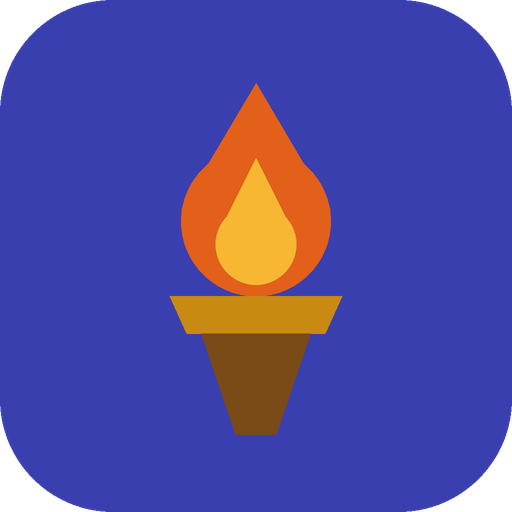
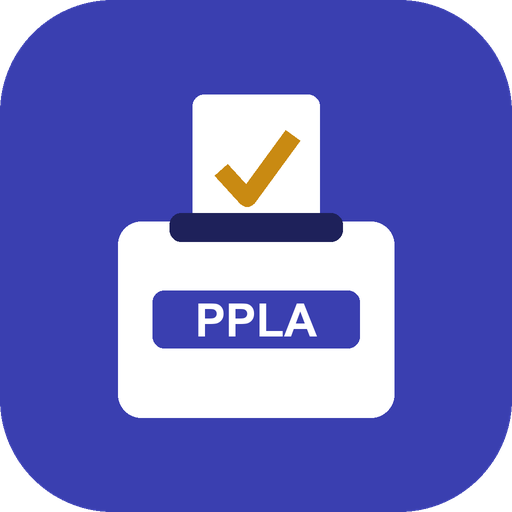
v1.14: general PPLA election monitoring manager
- Neutral header with all three contesting panels' symbols (Torch, Eagle, Lion)
- Every panel shown alike in result entry, tallies and the Team candidates table
- Ballot templates name Eagle and Lion candidates from their posters where the post matches one candidate
- Torch candidates listed in Contesting panels from the ballot templates
- Neutral wording, settings (desk name, support levels for a chosen panel), ballot-box icon

Changed region(s): [[0.2188, 0.1562, 0.7812, 0.875]]

diff --git a/index.html b/index.html
@@ -5,7 +5,7 @@
 <meta name="viewport" content="width=device-width,initial-scale=1,viewport-fit=cover">
 <title>PPLA Election Manager</title>
 <meta name="theme-color" content="#3a3fb0">
-<meta name="ppla-build" content="23">
+<meta name="ppla-build" content="24">
 <meta name="description" content="Campaign manager and unofficial results tally for PPLA elections">
 <link rel="manifest" href="manifest.webmanifest">
 <link rel="icon" href="icons/icon-192.png" type="image/png">
@@ -20,7 +20,7 @@
 :root{
   --bg:#eef1f5; --surface:#ffffff; --surface-2:#f6f8fb; --line:#d9dee8;
   --fg:#161a2b; --muted:#5c6378; --accent:#3a3fb0; --accent-ink:#ffffff; --accent-soft:#e3e4f8;
-  --gold:#c98a12; --flame:#e2601a; --flame-core:#f7b733; --handle:#7a4a17;
+  --gold:#c98a12; --flame:#e2601a; --flame-core:#f7b733; --handle:#7a4a17; --eagle:#2f6db3; --lion:#b5651d; --lion-face:#f0c27a;
   --strong:#1f8a52; --lean:#2f8fa8; --undec:#c98a12; --opp:#c2413a;
   --display:"Barlow Condensed","Arial Narrow",Arial,sans-serif;
   --body:"Source Sans 3","Segoe UI",system-ui,sans-serif;
@@ -28,11 +28,11 @@
 @media (prefers-color-scheme: dark){:root:not([data-theme="light"]){
   --bg:#0f111a; --surface:#181b28; --surface-2:#1e2232; --line:#2b3046;
   --fg:#e8eaf3; --muted:#9aa1b8; --accent:#8e92ff; --accent-ink:#11132a; --accent-soft:#262a52;
-  --gold:#e8b44a; --flame:#ff7a33; --flame-core:#ffd060; --handle:#b07a3c; --strong:#4cc285; --lean:#5bbfd6; --undec:#e8b44a; --opp:#f07a72; color-scheme:dark}}
+  --gold:#e8b44a; --flame:#ff7a33; --flame-core:#ffd060; --handle:#b07a3c; --eagle:#6ea8ef; --lion:#d98a45; --lion-face:#f3d29a; --strong:#4cc285; --lean:#5bbfd6; --undec:#e8b44a; --opp:#f07a72; color-scheme:dark}}
 :root[data-theme="dark"]{
   --bg:#0f111a; --surface:#181b28; --surface-2:#1e2232; --line:#2b3046;
   --fg:#e8eaf3; --muted:#9aa1b8; --accent:#8e92ff; --accent-ink:#11132a; --accent-soft:#262a52;
-  --gold:#e8b44a; --flame:#ff7a33; --flame-core:#ffd060; --handle:#b07a3c; --strong:#4cc285; --lean:#5bbfd6; --undec:#e8b44a; --opp:#f07a72; color-scheme:dark}
+  --gold:#e8b44a; --flame:#ff7a33; --flame-core:#ffd060; --handle:#b07a3c; --eagle:#6ea8ef; --lion:#d98a45; --lion-face:#f3d29a; --strong:#4cc285; --lean:#5bbfd6; --undec:#e8b44a; --opp:#f07a72; color-scheme:dark}
 
 *{box-sizing:border-box}
 :root{padding-top:env(safe-area-inset-top,0px);padding-bottom:env(safe-area-inset-bottom,0px)}
@@ -62,6 +62,11 @@ h1{margin:2px 0 0;font-size:32px;line-height:1.05;font-weight:700}
 .urdu b{color:var(--flame);font-weight:700}
 .symtag{display:inline-flex;align-items:center;gap:3px;color:var(--flame);font-weight:700;font-size:12px}
 .symtag svg{width:14px;height:14px}
+.symtag.p-eagle{color:var(--eagle)} .symtag.p-lion{color:var(--lion)}
+.parties{display:flex;flex-wrap:wrap;gap:6px 14px;margin-top:6px}
+.party{display:flex;align-items:center;gap:6px;font-size:12px;line-height:1.25;color:var(--muted)}
+.party svg{width:30px;height:30px;flex:none}
+.party b{display:block;color:var(--ink)}
 .linkbtn{background:none;border:0;color:var(--accent);font-weight:600;padding:0;font-size:13px}
 nav.tabs{display:flex;gap:4px;overflow-x:auto;scrollbar-width:none;margin:0 -4px}
 nav.tabs button{background:none;border:0;border-bottom:3px solid transparent;padding:10px 12px;font-family:var(--display);font-size:18px;font-weight:600;color:var(--muted);white-space:nowrap}
@@ -237,16 +242,13 @@ nav.tabs .ur{font-size:14px}
   <div class="wrap">
     <div class="headrow">
       <div class="brand">
-        <svg class="torch" viewBox="0 0 64 64" role="img" aria-label="Election symbol: Torch (Mashal)"><title>Election symbol: Torch (Mashal)</title>
-          <path d="M32 3c7 9 13 14 13 23a13 13 0 0 1-26 0c0-7 4-10 7-15 1 4 3 6 5 7-1-6 0-10 1-15z" fill="var(--flame)"/>
-          <path d="M32 17c3 5 7 8 7 13a7 7 0 0 1-14 0c0-4 2-6 3-9 1 2 2 3 4 4 0-3 0-5 0-8z" fill="var(--flame-core)"/>
-          <path d="M18 39h28l-3 6H21z" fill="var(--gold)"/>
-          <path d="M23 45h18l-6 17h-6z" fill="var(--handle)"/></svg>
+        
         <div>
-        <div class="eyebrow" id="hdrEyebrow">Nawa-e-Asatza · Ittehad-e-Asatza Punjab · PPLA Elections</div>
+        <div class="eyebrow" id="hdrEyebrow">PPLA Elections · Election monitoring</div>
         <h1 id="hdrTitle">PPLA Election Manager</h1>
-        <div class="urdu" lang="ur" dir="rtl">نوائے اساتذہ · اتحادِ اساتذہ پنجاب — انتخابی نشان: <b>مشعل</b></div>
-        <div class="btnrow" style="align-items:center;margin-top:4px"><button class="linkbtn" id="btnSettings" type="button">Set panel name &amp; polling day</button><button class="btn small primary" id="btnInstall" type="button" hidden>Install app</button></div>
+        <div class="urdu" lang="ur" dir="rtl">پی پی ایل اے انتخابات — مقابلے میں تین پینل</div>
+        <div class="parties" id="hdrParties"></div>
+        <div class="btnrow" style="align-items:center;margin-top:4px"><button class="linkbtn" id="btnSettings" type="button">Set desk name &amp; polling day</button><button class="btn small primary" id="btnInstall" type="button" hidden>Install app</button></div>
         </div>
       </div>
       <div class="stamp" id="stamp" hidden>
@@ -344,7 +346,7 @@ nav.tabs .ur{font-size:14px}
     <div class="filters"><input id="tSearch" type="search" placeholder="Search name, college, district or task"><select id="tDiv" aria-label="Division"></select></div>
     <div class="kpis" id="tKpis"></div>
     <div class="card"><div class="sechead"><h3>Coordinator gaps</h3><span class="note">Every division, district and college needs a named person</span></div><div class="datacard" id="tGaps"></div></div>
-    <div class="card"><div class="sechead"><h3>Our candidates &amp; seats</h3><button class="btn small" data-rgo-tab="setup" type="button">Edit posts &amp; candidates</button></div><div id="tCands"></div></div>
+    <div class="card"><div class="sechead"><h3>Candidates &amp; seats</h3><button class="btn small" data-rgo-tab="setup" type="button">Edit posts &amp; candidates</button></div><div id="tCands"></div></div>
     <div class="grid2" id="teamGroups"></div>
   </section>
 
@@ -419,7 +421,7 @@ nav.tabs .ur{font-size:14px}
 <script>
 (function(){
 const DIVISIONS=["Bahawalpur","Dera Ghazi Khan","Faisalabad","Gujranwala","Gujrat","Lahore","Multan","Rawalpindi","Sahiwal","Sargodha"];
-const SUPPORT=[["strong","Strong support","c-strong"],["lean","Leaning our way","c-lean"],["undec","Undecided","c-undec"],["opp","Opposed","c-opp"]];
+const SUPPORT=[["strong","Strong support","c-strong"],["lean","Leaning","c-lean"],["undec","Undecided","c-undec"],["opp","Opposed","c-opp"]];
 const SUPMAP=Object.fromEntries(SUPPORT.map(s=>[s[0],s]));
 const ACT_TYPES=["College visit","Staff-room meeting","Phone / WhatsApp drive","Corner meeting","Divisional convention","Central rally / convention","Press & social media","Manifesto distribution","Polling-day duty"];
 const ROLES=["Central committee","Campaign coordinator","Divisional coordinator","District coordinator","Unit coordinator","Unit representative","Focal person","Polling agent","Volunteer"];
@@ -429,11 +431,22 @@ const FOCUS=["Media & social media","Women colleges","Polling agents & polling d
 const UNIT_ROLES=["Unit coordinator","Unit representative"];
 const LEVELS={unit:"Unit",division:"Division",centre:"Centre"};
 // Release numbers: scripts/release.py keeps these, the ppla-build meta tag, version.json and sw.js in step.
-const APP_VERSION="1.13", APP_BUILD=23;
+const APP_VERSION="1.14", APP_BUILD=24;
 // Coalition this desk serves. The panel name in Settings overrides the display name.
-const COALITION="Nawa-e-Asatza & Ittehad-e-Asatza Punjab", SYMBOL="Torch (Mashal · مشعل)";
-const TORCH_SVG=`<svg viewBox="0 0 64 64" aria-hidden="true"><path d="M32 3c7 9 13 14 13 23a13 13 0 0 1-26 0c0-7 4-10 7-15 1 4 3 6 5 7-1-6 0-10 1-15z" fill="var(--flame)"/><path d="M18 39h28l-3 6H21z" fill="var(--gold)"/><path d="M23 45h18l-6 17h-6z" fill="var(--handle)"/></svg>`;
-const panelName=()=>S.cfg.panel||COALITION;
+const TORCH_SVG=`<svg viewBox="0 0 64 64" aria-hidden="true"><path d="M32 3c7 9 13 14 13 23a13 13 0 0 1-26 0c0-7 4-10 7-15 1 4 3 6 5 7-1-6 0-10 1-15z" fill="var(--flame)"/><path d="M32 17c3 5 7 8 7 13a7 7 0 0 1-14 0c0-4 2-6 3-9 1 2 2 3 4 4 0-3 0-5 0-8z" fill="var(--flame-core)"/><path d="M18 39h28l-3 6H21z" fill="var(--gold)"/><path d="M23 45h18l-6 17h-6z" fill="var(--handle)"/></svg>`, EAGLE_SVG=`<svg viewBox="0 0 64 64" aria-hidden="true"><path d="M32 14c-3 0-5 2-5 5v4C20 21 10 16 3 8c2 12 9 21 20 25l-7 3h9l3 2v9l-5 9h18l-5-9v-9l3-2h9l-7-3c11-4 18-13 20-25-7 8-17 13-24 15v-4c0-3-2-5-5-5z" fill="var(--eagle)"/><path d="M29 18l-5 2 5 1z" fill="var(--gold)"/><circle cx="33" cy="18" r="1.4" fill="#fff"/></svg>`, LION_SVG=`<svg viewBox="0 0 64 64" aria-hidden="true"><path d="M32 3l6 7 9-3 1 9 9 4-4 8 6 7-8 4 1 9-9-1-4 8-7-5-7 5-4-8-9 1 1-9-8-4 6-7-4-8 9-4 1-9 9 3z" fill="var(--lion)"/><circle cx="32" cy="34" r="15" fill="var(--lion-face)"/><circle cx="26.5" cy="31" r="2" fill="#2a1a0e"/><circle cx="37.5" cy="31" r="2" fill="#2a1a0e"/><path d="M28.5 37h7L32 41z" fill="#2a1a0e"/><path d="M27 44q5 3 10 0" stroke="#2a1a0e" stroke-width="1.6" fill="none"/></svg>`;
+// The three panels contesting the PPLA elections, shown alike. Symbol words are matched first, then panel names:
+// the Eagle panel's own posters call it "Ittehad-e-Asatza Punjab", which is also part of the Torch coalition's name.
+const PARTIES=[
+  {key:"torch",en:"Nawa-e-Asatza & Ittehad-e-Asatza Punjab",ur:"نوائے اساتذہ · اتحاد اساتذہ پنجاب",sym:"Torch",symUr:"مشعل",svg:TORCH_SVG,
+    syms:["torch","mashal","mashaal","مشعل"],names:["nawa e asatza","nawa asatza","nawae asatza","ittehad e asatza punjab","ittihad e asatza punjab","etehad e asatza punjab","ethad e asatza punjab","ethad a asatza punjab","نوائے اساتذہ","اتحاد اساتذہ پنجاب","اتحادِ اساتذہ پنجاب"]},
+  {key:"eagle",en:"Ittehad-e-Asatza Pakistan",ur:"اتحاد اساتذہ پاکستان",sym:"Eagle",symUr:"شاہین",svg:EAGLE_SVG,
+    syms:["eagle","shaheen","شاہین","عقاب"],names:["ittehad e asatza pakistan","ittihad e asatza pakistan","اتحاد اساتذہ پاکستان","اتحادِ اساتذہ پاکستان"]},
+  {key:"lion",en:"Tehreek-e-Asatza Punjab",ur:"تحریک اساتذہ پنجاب",sym:"Lion",symUr:"شیر",svg:LION_SVG,
+    syms:["lion","شیر"],names:["tehreek e asatza","tehreek asatza","tehreak e asatza","tehreak a asatza","tahreek e asatza","تحریک اساتذہ"]}];
+const partyOf=k=>{const raw=String(k&&(k.panel||k.name)||"");if(!raw)return null;const p=norm(raw),has=m=>raw.includes(m)||p.includes(m);
+  return PARTIES.find(x=>x.syms.some(has))||PARTIES.find(x=>x.names.some(has))||null};
+const symTag=(p,label=true)=>p?`<span class="symtag p-${p.key}" title="${esc(p.sym)} · ${esc(p.en)}">${p.svg}${label?esc(p.sym):""}</span>`:"";
+const panelName=()=>S.cfg.panel||"PPLA Election Manager";
 
 /* ---------- Punjab colleges directory (861 public colleges, CIS Punjab; rebuilt by scripts/build_seed.py) ---------- */
 /*SEED-START*/
@@ -556,7 +569,7 @@ function briefText(div){
   if(pr.length){L.push("","*Priority targets*");pr.forEach((x,i)=>L.push(`${i+1}. ${x.u.name}${n(x.u.members)?` — ${n(x.u.members)} voters`:""}, ${(SUPMAP[x.u.support]||["","not assessed"])[1].toLowerCase()}, ${x.l?"last contact "+fmtDate(x.l):"never contacted"}`))}
   if(!div){const lag=DIVISIONS.map(d=>({d,g:agg(S.units.filter(u=>u.division===d))})).filter(x=>x.g.units).sort((x,y)=>pct(x.g.contacted,x.g.voters)-pct(y.g.contacted,y.g.voters)||y.g.units-x.g.units).slice(0,3);
     if(lag.length){L.push("","*Divisions needing a push*");lag.forEach(x=>L.push(`• ${x.d}: ${pct(x.g.contacted,x.g.voters)}% contacted, ${x.g.units} units`))}}
-  L.push("",`🔥 Vote for the Torch (مشعل) · ${COALITION}`);
+  L.push("","PPLA Election Manager · unofficial monitoring brief");
   return L.join("\n");
 }
 function emptyBox(title,body,btn){return `<div class="empty"><b>${esc(title)}</b><span>${esc(body)}</span>${btn&&!S.readOnly?`<button class="btn small primary" data-add="${btn[0]}" type="button">${esc(btn[1])}</button>`:""}</div>`}
@@ -572,7 +585,7 @@ function renderPunjab(){
     ["Unit coordinators in place",pct(reps,a.units)+"%",reps+" of "+a.units+" units"],
     ["Voters (faculty)",a.voters.toLocaleString(),a.voters?S.units.filter(u=>n(u.members)).length+" units with strength entered":"enter faculty strength per unit"],
     ["Contacted",pct(a.contacted,a.voters)+"%",a.contacted.toLocaleString()+" teachers"],
-    ["Favourable",pct(fav,a.voters)+"%",!a.voters?"strong + leaning":fav>=maj?"majority reached on paper":(maj-fav).toLocaleString()+" short of a majority"],
+    ["Favourable",pct(fav,a.voters)+"%",!a.voters?"strong + leaning"+trackNote():fav>=maj?"majority reached on paper":(maj-fav).toLocaleString()+" short of a majority"],
     ["Outreach done",done.length,reached?reached.toLocaleString()+" people reached":"log the first one"],
   ]);
   supBar($("pBar"),a);
@@ -697,14 +710,15 @@ function renderTeam(){
   $("tGaps").innerHTML=!gapDiv.length&&!gapDist.length?`<div class="okline">Every ${tdv?"post in "+esc(tdv):"division and district"} has a coordinator.</div>`:
     (gapDiv.length?`<div class="note"><b>Divisions without a coordinator</b> (tap to assign)</div><div class="btnrow">${gapDiv.map(d=>assignBtn(d,{role:"Divisional coordinator",level:"division",division:d})).join("")}</div>`:"")+
     (gapDist.length?`<div class="note"><b>Districts without a coordinator</b> (tap to assign)</div><div class="btnrow">${gapDist.map(x=>assignBtn(x.ds+(tdv?"":" · "+x.d),{role:"District coordinator",level:"district",division:x.d,district:x.ds})).join("")}</div>`:"");
-  // our candidates, from Results > Posts & candidates
-  const ours=S.contests.map(c=>({c,k:(c.candidates||[]).filter(isOurs)})).sort((a,b)=>cmpContest(a.c,b.c))
-    .filter(x=>!tdv||x.c.scope==="centre"||x.c.division===tdv||(x.c.scope==="unit"&&(S.units.find(u=>u.id===x.c.unitId)||{}).division===tdv));
-  $("tCands").innerHTML=!S.contests.length?`<div class="empty"><b>No posts set up yet</b><span>Add each post with its seats and candidates. Write our candidates' panel as "Nawa-e-Asatza", "Ittehad-e-Asatza" or "Torch" so they are picked out.</span><button class="btn small primary" data-rgo-tab="setup" type="button">Set up posts &amp; candidates</button></div>`:
-    `<div class="tscroll"><table><thead><tr><th>Post</th><th>Who votes</th><th class="r">Seats</th><th>Our candidate(s)</th><th class="r">In the field</th></tr></thead><tbody>`+
-    ours.map(x=>{const seats=n(x.c.seats)||1,open=seats-x.k.length;return `<tr class="click" data-edit-contest="${esc(x.c.id)}" tabindex="0"><td><b>${esc(x.c.name)}</b></td><td>${esc(scopeLabel(x.c))}</td><td class="r">${seats}</td>
-      <td>${x.k.length?x.k.map(k=>`<span class="symtag">${TORCH_SVG}</span> ${esc(k.name)}`).join("<br>"):'<span class="stale">No Torch candidate</span>'}${x.k.length&&open>0?` <span class="note">(${open} seat${open===1?"":"s"} without our candidate)</span>`:""}</td>
-      <td class="r">${(x.c.candidates||[]).length}</td></tr>`}).join("")+`</tbody></table></div>`;
+  // every panel's candidates, from Results > Posts & candidates
+  const posts=S.contests.slice().sort(cmpContest)
+    .filter(c=>!tdv||c.scope==="centre"||c.division===tdv||(c.scope==="unit"&&(S.units.find(u=>u.id===c.unitId)||{}).division===tdv));
+  const pcell=(c,p)=>{const ks=(c.candidates||[]).filter(k=>partyOf(k)===p);
+    return ks.length?ks.map(k=>k.name===k.panel?'<span class="note">panel only</span>':esc(k.name)).join("<br>"):'<span class="stale">–</span>'};
+  $("tCands").innerHTML=!S.contests.length?`<div class="empty"><b>No posts set up yet</b><span>Add each post with its seats and candidates. Write each candidate's panel or symbol (Torch, Eagle or Lion) so the right symbol is shown.</span><button class="btn small primary" data-rgo-tab="setup" type="button">Set up posts &amp; candidates</button></div>`:
+    `<div class="tscroll"><table><thead><tr><th>Post</th><th>Who votes</th><th class="r">Seats</th>${PARTIES.map(p=>`<th>${symTag(p)}</th>`).join("")}<th class="r">In the field</th></tr></thead><tbody>`+
+    posts.map(c=>`<tr class="click" data-edit-contest="${esc(c.id)}" tabindex="0"><td><b>${esc(c.name)}</b></td><td>${esc(scopeLabel(c))}</td><td class="r">${n(c.seats)||1}</td>
+      ${PARTIES.map(p=>`<td>${pcell(c,p)}</td>`).join("")}<td class="r">${(c.candidates||[]).length}</td></tr>`).join("")+`</tbody></table></div>`;
   if(!S.team.length){$("teamGroups").innerHTML=`<div style="grid-column:1/-1">${emptyBox("No team members yet","Add the central committee, a coordinator for each division and district, a coordinator for every college, and focal persons for media, polling day and other tasks.",["member","Add member"])}</div>`;return}
   const match=m=>(!tdv||m.division===tdv||m.level==="centre")&&(!q||[m.name,m.role,m.focus,m.unit,m.district,m.division,m.phone,(S.units.find(u=>u.id===m.unitId)||{}).name].join(" ").toLowerCase().includes(q));
   const notFocal=m=>m.role!=="Focal person";
@@ -715,7 +729,9 @@ function renderTeam(){
 
 function renderHeader(){
   const c=S.cfg;
-  $("hdrTitle").textContent=c.panel?c.panel:"PPLA Election Manager";
+  $("hdrTitle").textContent="PPLA Election Manager";
+  $("hdrEyebrow").textContent=(c.panel?c.panel+" · ":"")+"PPLA Elections · Election monitoring";
+  $("hdrParties").innerHTML=PARTIES.map(p=>`<span class="party">${p.svg}<span><b>${esc(p.sym)} · <span lang="ur">${esc(p.symUr)}</span></b>${esc(p.en)}</span></span>`).join("");
   if(c.pollDate){const d=dayDiff(c.pollDate,todayStr());$("stamp").hidden=false;$("daysLeft").textContent=d>=0?d:"0";$("pollDate").textContent=fmtDate(c.pollDate)}else $("stamp").hidden=true;
   $("btnSettings").hidden=S.readOnly&&!!c.panel;
 }
@@ -853,8 +869,9 @@ function memberForm(m){
 
 function settingsForm(){
   const c=S.cfg;
-  openSheet(`<h2 id="sheetTitle">Campaign settings</h2><form class="f">
-    <label class="full">Panel / coalition name<input name="panel" value="${esc(c.panel)}" placeholder="${esc(COALITION)}"></label>
+  openSheet(`<h2 id="sheetTitle">Settings</h2><form class="f">
+    <label class="full">Desk or team name (shown on shared messages)<input name="panel" value="${esc(c.panel)}" placeholder="PPLA Election Manager"></label>
+    <label class="full">Support levels are for<select name="trackParty"><option value="">Not set</option>${PARTIES.map(p=>`<option value="${p.key}"${c.trackParty===p.key?" selected":""}>${esc(p.sym)} · ${esc(p.en)}</option>`).join("")}</select></label>
     <label>Polling day<input name="pollDate" type="date" value="${esc(c.pollDate)}"></label>
     <label>Election body<input name="body" value="${esc(c.body||"Punjab Professors & Lecturers Association")}"></label>
     <div class="full ballothead"><b>Main Election Office</b> · every polling agent sends results here. Set it once on the central desk, then send the backup to all phones.</div>
@@ -864,7 +881,7 @@ function settingsForm(){
     ${foot(false)}</form>`,
   async d=>{
     for(const k of["officeWa","officeWa2"])if(d[k].trim()&&!waNumber(d[k])){toast("Check the office number: use a mobile number like 0300-1234567");return}
-    S.cfg=Object.assign({},S.cfg,{panel:d.panel.trim(),pollDate:d.pollDate,body:d.body.trim(),officeName:d.officeName.trim()||DEFAULT_OFFICE,officeWa:d.officeWa.trim(),officeWa2:d.officeWa2.trim(),updatedAt:new Date().toISOString()});persist();render();toast("Settings saved");closeSheet()});
+    S.cfg=Object.assign({},S.cfg,{panel:d.panel.trim(),trackParty:d.trackParty||"",pollDate:d.pollDate,body:d.body.trim(),officeName:d.officeName.trim()||DEFAULT_OFFICE,officeWa:d.officeWa.trim(),officeWa2:d.officeWa2.trim(),updatedAt:new Date().toISOString()});persist();render();toast("Settings saved");closeSheet()});
 }
 $("btnSettings").addEventListener("click",settingsForm);
 
@@ -1157,14 +1174,6 @@ const applies=(c,u)=>c.scope==="centre"||(c.scope==="division"&&u.division===c.d
 let resIdx=null,resIdxVer=-1,resIdxArr=null;
 const resFor=uid=>{if(resIdxVer!==dataVer||resIdxArr!==S.results){resIdx=new Map(S.results.map(r=>[r.unitId,r]));resIdxVer=dataVer;resIdxArr=S.results}return resIdx.get(uid)};
 const scopeLabel=c=>c.scope==="centre"?"Provincial (Punjab-wide)":c.scope==="division"?(c.division||"?")+" Division":((S.units.find(u=>u.id===c.unitId)||{}).name||"Unit");
-// Our candidate: panel matches the Settings panel name, or names the coalition or its Torch symbol.
-// Narrow on purpose: "Asatza" alone also names rival panels (Ittehad-e-Asatza Pakistan · Eagle, Tehreek-e-Asatza Punjab · Lion).
-const OUR_MARKS=["nawa e asatza","nawa asatza","nawae asatza","ittehad e asatza punjab","ittihad e asatza punjab","etehad e asatza punjab","ethad e asatza punjab","ethad a asatza punjab","torch","mashal","mashaal"];
-const OUR_MARKS_UR=["مشعل","نوائے اساتذہ","اتحاد اساتذہ پنجاب","اتحادِ اساتذہ پنجاب"];
-const isOurs=k=>{if(!k||!k.panel)return false;const raw=String(k.panel),p=norm(raw);
-  if(OUR_MARKS_UR.some(m=>raw.includes(m)))return true;
-  if(OUR_MARKS.some(m=>p.includes(m)))return true;
-  return !!(S.cfg.panel&&p&&(norm(S.cfg.panel).includes(p)||p.includes(norm(S.cfg.panel))))};
 const hasVotes=(r,c)=>r&&r.votes&&r.votes[c.id]&&Object.values(r.votes[c.id]).some(v=>v!==""&&v!=null);
 
 function tally(c){
@@ -1199,7 +1208,7 @@ $("rViews").addEventListener("click",e=>{const b=e.target.closest("[data-rview]"
 const PANEL_LEVEL={centre:"Provincial",division:"Divisional"};
 function renderPanels(){
   const box=$("rPanels");
-  const list=typeof CONTEST_PANELS!=="undefined"?CONTEST_PANELS:[];
+  const list=(typeof CONTEST_PANELS!=="undefined"?CONTEST_PANELS:[]).concat(templatePanels());
   if(!list.length){box.innerHTML=`<div class="empty"><b>No contesting panels yet</b></div>`;return}
   const divs=[...new Set(list.map(p=>p.division).filter(Boolean))].sort((a,b)=>DIVISIONS.indexOf(a)-DIVISIONS.indexOf(b));
   const f=S.panelFilter||"all", q=(S.panelQ||"").trim().toLowerCase();
@@ -1215,13 +1224,13 @@ function renderPanels(){
   const shown=list.filter(p=>f==="all"||(f==="centre"?p.level==="centre":p.division===f))
     .map(p=>Object.assign({},p,{cands:p.candidates.filter(hit)})).filter(p=>p.cands.length);
   const group=p=>`<div class="pgroup card">
-      <div class="pghead"><b>${esc(p.panel)}</b><span class="ur" lang="ur" dir="rtl">${esc(p.panelUr)}</span>
+      <div class="pghead">${symTag(partyOf({panel:p.symbol+" "+p.panel}),false)}<b>${esc(p.panel)}</b><span class="ur" lang="ur" dir="rtl">${esc(p.panelUr)}</span>
         <span class="ptag">${esc(p.symbol)} · <span lang="ur">${esc(p.symbolUr)}</span></span><span class="ptag">${esc(PANEL_LEVEL[p.level])}${p.division?" · "+esc(p.division):""}</span></div>
       <div class="cgrid">${p.cands.map(cand).join("")}</div></div>`;
   const sections=[["Provincial panels",shown.filter(p=>p.level==="centre")],...divs.map(d=>[d+" Division",shown.filter(p=>p.division===d)])].filter(g=>g[1].length);
   const total=list.reduce((n,p)=>n+p.candidates.length,0);
   box.innerHTML=`<div class="sechead"><h2>Contesting panels</h2></div>
-    <p class="note">Rival panels' candidates as printed on their own posters (${total} so far), so agents and coordinators can recognise them. Our own panel is ${esc(COALITION)} (Torch).</p>
+    <p class="note">Candidates of all three contesting panels (${total} so far), so agents and monitors can recognise them. Photos and names are as printed on each panel's own posters; candidates without a poster here are listed from the ballot paper.</p>
     <input id="pSearch" type="search" placeholder="Search name, post or college" value="${esc(S.panelQ||"")}" aria-label="Search candidates">
     <div class="chips">${chip("all","All")}${chip("centre","Provincial")}${divs.map(d=>chip(d,d)).join("")}</div>
     ${sections.length?sections.map(([t,ps])=>`<h3>${esc(t)}</h3>${ps.map(group).join("")}`).join(""):`<div class="empty"><b>No candidate matches</b></div>`}`;
@@ -1237,15 +1246,15 @@ function ballotsFor(cs){
   for(const c of cs.slice().sort(cmpContest)){
     const b=by[c.scope]=by[c.scope]||{scope:c.scope,title:BALLOT_NAME[c.scope]+(c.scope==="division"&&c.division?" · "+c.division:""),posts:0,panels:[],seen:new Set()};
     b.posts++;
-    for(const k of c.candidates||[]){const key=panelKey(k);if(!b.seen.has(key)){b.seen.add(key);b.panels.push({key,label:k.panel||k.name,ours:isOurs(k)})}}
+    for(const k of c.candidates||[]){const key=panelKey(k);if(!b.seen.has(key)){b.seen.add(key);b.panels.push({key,label:k.panel||k.name,party:partyOf(k)})}}
   }
   return Object.values(by);
 }
 // Entry fields for one ballot: one count per panel, or each candidate's votes post by post.
 function ballotFields(b,cs,r){
-  if(panelMode(b.scope))return `<fieldset class="full"><legend>${esc(b.title)}</legend><div class="full note">${b.posts} post${b.posts===1?"":"s"} on this ballot. One stamp counts for a whole panel: enter the votes for each panel.</div>${b.panels.map(pn=>`<label>${esc(pn.label)}${pn.ours?` <span class="symtag">${TORCH_SVG}</span>`:""}<input type="number" min="0" inputmode="numeric" data-ps="${esc(b.scope)}" data-pk="${esc(pn.key)}" value="${esc(panelValue(r,b,pn.key))}"></label>`).join("")}</fieldset>`;
+  if(panelMode(b.scope))return `<fieldset class="full"><legend>${esc(b.title)}</legend><div class="full note">${b.posts} post${b.posts===1?"":"s"} on this ballot. One stamp counts for a whole panel: enter the votes for each panel.</div>${b.panels.map(pn=>`<label>${esc(pn.label)}${pn.party?" "+symTag(pn.party,false):""}<input type="number" min="0" inputmode="numeric" data-ps="${esc(b.scope)}" data-pk="${esc(pn.key)}" value="${esc(panelValue(r,b,pn.key))}"></label>`).join("")}</fieldset>`;
   return `<div class="full ballothead"><b>${esc(b.title)}</b> · ${b.posts} post${b.posts===1?"":"s"} · enter each candidate's votes</div>`+
-    cs.filter(c=>c.scope===b.scope).sort(cmpContest).map(c=>`<fieldset class="full"><legend>${esc(c.name)}${c.seats>1?` · ${c.seats} seats`:""}</legend>${(c.candidates||[]).map(k=>`<label>${esc(k.name)}${k.panel&&k.panel!==k.name?` · ${esc(k.panel)}`:""}${isOurs(k)?` <span class="symtag">${TORCH_SVG}</span>`:""}<input type="number" min="0" inputmode="numeric" data-c="${esc(c.id)}" data-k="${esc(k.id)}" value="${esc(r&&r.votes&&r.votes[c.id]?r.votes[c.id][k.id]??"":"")}"></label>`).join("")}</fieldset>`).join("");
+    cs.filter(c=>c.scope===b.scope).sort(cmpContest).map(c=>`<fieldset class="full"><legend>${esc(c.name)}${c.seats>1?` · ${c.seats} seats`:""}</legend>${(c.candidates||[]).map(k=>`<label>${esc(k.name)}${k.panel&&k.panel!==k.name?` · ${esc(k.panel)}`:""}${partyOf(k)?" "+symTag(partyOf(k),false):""}<input type="number" min="0" inputmode="numeric" data-c="${esc(c.id)}" data-k="${esc(k.id)}" value="${esc(r&&r.votes&&r.votes[c.id]?r.votes[c.id][k.id]??"":"")}"></label>`).join("")}</fieldset>`).join("");
 }
 // Saved panel count, or one rebuilt from per-post votes (results entered before panel mode).
 function panelValue(r,b,key){
@@ -1272,14 +1281,13 @@ function panelStandings(){
     const rows=b.panels.map(pn=>Object.assign({},pn,{v:tot[pn.key]})).sort((x,y)=>y.v-x.v), sum=rows.reduce((s,x)=>s+x.v,0);
     const margin=rows.length>1?rows[0].v-rows[1].v:null, allIn=reported===units.length, safe=margin!=null&&!unknown&&margin>remaining;
     html+=`<div class="card"><div class="sechead"><h3>${esc(g.title)}</h3><span class="note">Panel standings · ${reported}/${units.length} units</span></div>
-      <div class="tally">${rows.map((k,i)=>`<div class="trow${i===0&&sum?" lead":""}${k.ours?" ours":""}"><span class="rk">${i+1}</span><span class="who"><b>${esc(k.label)}</b>${k.ours?` <span class="symtag">${TORCH_SVG}Torch</span>`:""}</span><span class="vv">${k.v.toLocaleString()}<small>${sum?Math.round(k.v*1000/sum)/10:0}%</small></span><span class="bar"><span style="width:${rows[0].v?(k.v*100/rows[0].v).toFixed(1):0}%"></span></span></div>`).join("")}</div>
+      <div class="tally">${rows.map((k,i)=>`<div class="trow${i===0&&sum?" lead":""}"><span class="rk">${i+1}</span><span class="who"><b>${esc(k.label)}</b>${k.party?" "+symTag(k.party):""}</span><span class="vv">${k.v.toLocaleString()}<small>${sum?Math.round(k.v*1000/sum)/10:0}%</small></span><span class="bar"><span style="width:${rows[0].v?(k.v*100/rows[0].v).toFixed(1):0}%"></span></span></div>`).join("")}</div>
       <div class="tstat${safe||allIn?" safe":""}">${margin==null?"Only one panel on this ballot.":allIn?`All units in. Unofficial lead: ${margin} votes.`:safe?`Unassailable lead (unofficial) of ${margin}: more than the ${remaining.toLocaleString()} voters still to report.`:unknown?`Lead ${margin}. Faculty strength not entered for ${unknown} unreported units, so no safe call yet.`:`Lead ${margin}. About ${remaining.toLocaleString()} voters still to report.`}</div></div>`;
   }
   return html?`<h2 style="margin:8px 0 0;font-size:22px">Panel standings</h2>`+html:"";
 }
 
-/* ---- ballot paper templates: the seats on each ballot, our Torch candidates, rival panels by symbol only ---- */
-// Rival panels are listed under panel name and symbol only (user's rule: never store opponents' personal names).
+/* ---- ballot paper templates: the seats on each ballot and the Torch candidates; Eagle and Lion candidates come from their posters ---- */
 const OUR_PANEL="نوائے اساتذہ پنجاب · Torch", RIVAL_PANELS=["اتحاد اساتذہ پاکستان · Eagle","تحریک اساتذہ پنجاب · Lion"];
 // Provincial ballot (voted Punjab-wide), from the coalition's Rawalpindi Division poster.
 const PROVINCIAL_TEMPLATE={posts:[
@@ -1300,13 +1308,30 @@ const BALLOT_TEMPLATES=[
   ["District President Murree","صدر ضلع مری","شرجیلہ فائق"],["District President Talagang","صدر ضلع تلہ گنگ","عمران رضا منہاس"],
   ["Additional General Secretary (Women)","ایڈیشنل جنرل سیکرٹری خاتون","ضوفشاں کرن"],["Joint Secretary I","جوائنٹ سیکرٹری I","حافظ ثناءاللہ"],["Joint Secretary II","جوائنٹ سیکرٹری II","راجہ محمد اکرام"],["Joint Secretary (Women)","جوائنٹ سیکرٹری خاتون","شاہدہ پروین"],
   ["Secretary Publications","سیکرٹری نشر و اشاعت","وقاص رفیع"],["Finance Secretary","فنانس سیکرٹری","حافظ احمد علی"]]}];
+// Post names compared loosely: "Joint Secretary (I)" = "Joint Secretary 1", "President Punjab" = "President".
+const normPost=s=>String(s||"").toLowerCase().replace(/[^a-z0-9]+/g," ").trim().split(" ")
+  .filter(w=>w!=="punjab"&&w!=="division").map(w=>w==="1"?"i":w==="2"?"ii":w).join(" ");
+// A rival candidate's name from that panel's poster, only when exactly one candidate holds the post.
+function posterName(panel,scope,div,post){
+  const party=partyOf({panel});if(!party||typeof CONTEST_PANELS==="undefined")return "";
+  const hits=CONTEST_PANELS.filter(p=>p.level===scope&&(scope!=="division"||p.division===div)&&partyOf({panel:p.symbol+" "+p.panel})===party)
+    .flatMap(p=>p.candidates).filter(c=>normPost(c.post)===normPost(post)&&!/واضح نہیں/.test(c.name));
+  return hits.length===1?hits[0].name:"";
+}
+// Torch candidates from the ballot templates, shown beside the poster panels (no photos yet).
+function templatePanels(){
+  const mk=(t,level,division)=>({id:"t-"+(division||"centre"),panel:PARTIES[0].en,panelUr:PARTIES[0].ur,symbol:"Torch",symbolUr:"مشعل",level,division,
+    candidates:t.posts.map(([post,postUr,name])=>({post,postUr,name,nameEn:"",college:""}))});
+  return [mk(PROVINCIAL_TEMPLATE,"centre",""),...BALLOT_TEMPLATES.map(t=>mk(t,"division",t.division))];
+}
+const trackNote=()=>{const p=PARTIES.find(x=>x.key===S.cfg.trackParty);return p?" · for "+p.sym:""};
 // Adds a template's posts at one scope; a post already set up there (same name) is left as it is.
 function addTemplatePosts(t,scope,div){
   const now=new Date().toISOString();let added=0;
   t.posts.forEach(([en,ur,ours],i)=>{const name=en+" · "+ur;
     if(S.contests.some(c=>c.scope===scope&&(scope!=="division"||c.division===div)&&(norm(c.name)===norm(name)||norm(c.name)===norm(en))))return;
     S.contests.push({id:uid(),name,scope,division:scope==="division"?div:"",unitId:"",seats:1,order:i,
-      candidates:[...t.rivals.map(panel=>({id:uid(),name:panel,panel})),{id:uid(),name:ours,panel:OUR_PANEL}],updatedAt:now});added++});
+      candidates:[{id:uid(),name:ours,panel:OUR_PANEL},...t.rivals.map(panel=>({id:uid(),name:posterName(panel,scope,div,en)||panel,panel}))],updatedAt:now});added++});
   return added;
 }
 // A division's ballot, plus the Provincial posts if this device doesn't have them yet.
@@ -1337,7 +1362,7 @@ function contestForm(c){
     <label>Seats to fill<input name="seats" type="number" min="1" inputmode="numeric" value="${esc(c.seats||1)}"></label>
     <label id="cDivWrap">Division<select name="division"><option value="">Choose…</option>${opt(DIVISIONS,c.division)}</select></label>
     <label id="cUnitWrap">College unit<select name="unitId">${unitOpts}</select></label>
-    <label class="full">Candidates, one per line as Name | Panel<textarea name="cands" rows="5" placeholder="Prof. Ahmad Khan | Nawa-e-Asatza (Torch)&#10;Dr. Sara Malik | Rival panel">${esc((c.candidates||[]).map(k=>k.name+(k.panel?" | "+k.panel:"")).join("\n"))}</textarea></label>
+    <label class="full">Candidates, one per line as Name | Panel<textarea name="cands" rows="5" placeholder="Prof. Ahmad Khan | Nawa-e-Asatza (Torch)&#10;Dr. Sara Malik | Tehreek-e-Asatza (Lion)">${esc((c.candidates||[]).map(k=>k.name+(k.panel?" | "+k.panel:"")).join("\n"))}</textarea></label>
     ${foot(!!c.id)}</form>`,
   async d=>{
     if(d.scope==="division"&&!d.division){toast("Choose the division for this post");return}
@@ -1522,7 +1547,7 @@ function renderTally(){
       t.unknown?`Margin ${t.margin}. ${t.elig.length-t.reported} unit${t.elig.length-t.reported===1?"":"s"} still to report; faculty strength not entered for ${t.unknown} of them, so the lead can't be called safe yet.`:
       `Margin ${t.margin}. About ${t.remaining.toLocaleString()} voters in ${t.elig.length-t.reported} unit${t.elig.length-t.reported===1?"":"s"} still to report.`;
     html+=`<div class="card"><div class="sechead"><h3>${esc(c.name)}${t.seats>1?` <span class="note">· ${t.seats} seats</span>`:""}</h3><span class="note">${esc(scopeLabel(c))} · ${t.reported}/${t.elig.length} units</span></div>
-      <div class="tally">${t.rows.map((k,i)=>`<div class="trow${i<t.seats&&t.sum?" lead":""}${isOurs(k)?" ours":""}"><span class="rk">${i+1}</span><span class="who"><b>${esc(k.name)}</b>${k.panel&&k.panel!==k.name?`<small>${esc(k.panel)}</small>`:""}${isOurs(k)?` <span class="symtag">${TORCH_SVG}Torch</span>`:""}</span><span class="vv">${k.v.toLocaleString()}<small>${t.sum?Math.round(k.v*1000/t.sum)/10:0}%</small></span><span class="bar"><span style="width:${t.rows[0].v?(k.v*100/t.rows[0].v).toFixed(1):0}%"></span></span></div>`).join("")}</div>
+      <div class="tally">${t.rows.map((k,i)=>`<div class="trow${i<t.seats&&t.sum?" lead":""}"><span class="rk">${i+1}</span><span class="who"><b>${esc(k.name)}</b>${k.panel&&k.panel!==k.name?`<small>${esc(k.panel)}</small>`:""}${partyOf(k)?" "+symTag(partyOf(k)):""}</span><span class="vv">${k.v.toLocaleString()}<small>${t.sum?Math.round(k.v*1000/t.sum)/10:0}%</small></span><span class="bar"><span style="width:${t.rows[0].v?(k.v*100/t.rows[0].v).toFixed(1):0}%"></span></span></div>`).join("")}</div>
       <div class="tstat${t.safe||t.allIn?" safe":""}">${t.reported&&t.contested&&!t.allIn&&!t.safe?"Leading · ":""}${t.safe&&!t.allIn?"Unassailable lead (unofficial) · ":""}${esc(status)}</div></div>`;
   }
   $("rTally").innerHTML=html;
@@ -1582,7 +1607,7 @@ fillDistricts();
 setTab(S.tab);
 loadPhotoKeys();
 // Urdu beside the English headings, card titles and figure labels, wherever they are drawn
-const UR={"Support across Punjab":"پنجاب بھر میں حمایت","Division scoreboard":"ڈویژن اسکور بورڈ","Priority targets":"ترجیحی اہداف","Next 14 days":"اگلے 14 دن","Units needing a visit":"دورہ طلب یونٹس","District scoreboard":"ضلعی اسکور بورڈ","Divisional team":"ڈویژنل ٹیم","Outreach in this division":"اس ڈویژن میں رابطہ مہم","Units":"یونٹس","College units":"کالج یونٹس","Outreach log":"رابطہ مہم کا ریکارڈ","Coming up":"آئندہ","Completed & past":"مکمل اور گزشتہ","Campaign team":"انتخابی ٹیم","Coordinator gaps":"خالی کوآرڈینیٹر عہدے","Our candidates & seats":"ہمارے امیدوار اور نشستیں","Data & sharing":"ڈیٹا اور شیئرنگ","Save a backup":"بیک اپ محفوظ کریں","Load a backup":"بیک اپ لوڈ کریں","App version & updates":"ایپ ورژن اور اپڈیٹس","Punjab colleges directory":"پنجاب کالجز ڈائریکٹری","Update units from a spreadsheet":"اسپریڈشیٹ سے یونٹس اپڈیٹ کریں","Install on your phone":"فون پر انسٹال کریں","Clear this device":"اس ڈیوائس کا ڈیٹا صاف کریں","Panel standings":"پینل پوزیشن","Posts on the ballot":"بیلٹ پر عہدے","How voters mark each ballot":"ووٹر بیلٹ پر نشان کیسے لگاتے ہیں","Paste result messages":"نتائج کے پیغامات چسپاں کریں","Provincial posts":"صوبائی عہدے","Divisional posts":"ڈویژنل عہدے","Unit level posts":"یونٹ سطح کے عہدے","Centre — Punjab":"مرکز — پنجاب","Division — Directorates":"ڈویژن — ڈائریکٹوریٹس","District":"ضلع","Unit — Colleges":"یونٹ — کالجز","Focal persons":"فوکل پرسنز","Campaign settings":"انتخابی ترتیبات","Add college unit":"کالج یونٹ شامل کریں","Edit unit":"یونٹ میں ترمیم","Plan outreach":"رابطہ مہم کی منصوبہ بندی","Edit outreach":"رابطہ مہم میں ترمیم","Add team member":"ٹیم رکن شامل کریں","Edit team member":"ٹیم رکن میں ترمیم","Add post":"عہدہ شامل کریں","Edit post":"عہدے میں ترمیم","Result sheet photo":"نتیجہ شیٹ کی تصویر","Units registered":"رجسٹرڈ یونٹس","Unit coordinators in place":"مقرر یونٹ کوآرڈینیٹرز","Voters (faculty)":"ووٹرز (اساتذہ)","Contacted":"رابطہ ہوا","Favourable":"حامی","Outreach done":"مکمل رابطہ مہم","Voters":"ووٹرز","Outreach":"رابطہ مہم","Divisional coordinators":"ڈویژنل کوآرڈینیٹرز","District coordinators":"ضلعی کوآرڈینیٹرز","Unit coordinators":"یونٹ کوآرڈینیٹرز","Units reported":"رپورٹ شدہ یونٹس","Votes cast":"ڈالے گئے ووٹ","Turnout":"ٹرن آؤٹ","Add member":"رکن شامل کریں","Add the first post":"پہلا عہدہ شامل کریں","Add unit":"یونٹ شامل کریں","Cancel":"منسوخ","Check for updates":"اپڈیٹ چیک کریں","Choose from gallery":"گیلری سے منتخب کریں","Clear all data":"تمام ڈیٹا صاف کریں","Close":"بند کریں","Copy":"کاپی","Delete":"حذف کریں","Delete result":"نتیجہ حذف کریں","Edit":"ترمیم","Edit posts & candidates":"عہدوں اور امیدواروں میں ترمیم","Enter unit result":"یونٹ کا نتیجہ درج کریں","Export CSV":"CSV ایکسپورٹ کریں","Import a .csv file":"CSV فائل امپورٹ کریں","Import results":"نتائج امپورٹ کریں","Install app":"ایپ انسٹال کریں","Load missing colleges":"باقی کالجز لوڈ کریں","Mark done":"مکمل","Merge a file":"فائل شامل کریں","Plan visit":"دورہ طے کریں","Posts & candidates":"عہدے اور امیدوار","Contesting panels":"مدمقابل پینل","Provincial panels":"صوبائی پینل","Replace with a file":"فائل سے تبدیل کریں","Restart now":"ابھی دوبارہ کھولیں","Save":"محفوظ کریں","Save backup (.json)":"بیک اپ محفوظ کریں","Save result":"نتیجہ محفوظ کریں","Send backup on WhatsApp…":"واٹس ایپ پر بیک اپ بھیجیں","Send photo only":"صرف تصویر بھیجیں","Set panel name & polling day":"پینل کا نام اور پولنگ کا دن","Set up posts":"عہدے ترتیب دیں","Set up posts & candidates":"عہدے اور امیدوار ترتیب دیں","Share awaited list":"باقی یونٹس کی فہرست بھیجیں","Share division brief":"ڈویژن کی رپورٹ بھیجیں","Share message elsewhere…":"پیغام کہیں اور بھیجیں","Share summary as message":"خلاصہ بطور پیغام بھیجیں","Share to WhatsApp…":"واٹس ایپ پر بھیجیں","Share today's brief":"آج کی رپورٹ بھیجیں","Tally":"گنتی","Today":"آج","Units list (.csv)":"یونٹس کی فہرست","Use backup office number":"دفتر کا متبادل نمبر","View":"دیکھیں","WhatsApp":"واٹس ایپ","Take photo of result sheet":"نتیجہ شیٹ کی تصویر لیں","Retake photo":"دوبارہ تصویر لیں","1 · Send result message":"نتیجے کا پیغام بھیجیں","2 · Send result file + photo":"نتیجہ فائل اور تصویر بھیجیں","Tap again to delete":"حذف کرنے کے لیے دوبارہ دبائیں","Tap again to clear everything":"سب صاف کرنے کے لیے دوبارہ دبائیں","Strong support":"بھرپور حمایت","Leaning our way":"ہماری طرف مائل","Undecided":"غیر فیصلہ کن","Opposed":"مخالف","Not assessed":"جائزہ باقی","Support level":"حمایت کی سطح","Backup number (if the first is busy)":"متبادل نمبر (اگر پہلا مصروف ہو)","Candidates, one per line as Name | Panel":"امیدوار، ہر سطر میں ایک: نام | پینل","College (unit)":"کالج (یونٹ)","College name":"کالج کا نام","College unit":"کالج یونٹ","Contacted so far":"اب تک رابطہ","Date":"تاریخ","Designation":"عہدہ","Division":"ڈویژن","Election body":"انتخابی ادارہ","Faculty strength (voters)":"اساتذہ کی تعداد (ووٹرز)","Focal person for":"فوکل پرسن برائے","Last visit":"آخری دورہ","Lead person":"ذمہ دار فرد","Level":"سطح","Name":"نام","Note":"نوٹ","Notes (demands raised, commitments made, follow-ups)":"نوٹس","Notes (staff-room demands, pending promotions, influential seniors, rival activity)":"نوٹس","Office WhatsApp number":"دفتر کا واٹس ایپ نمبر","Office name":"دفتر کا نام","Panel / coalition name":"پینل / اتحاد کا نام","People reached":"رابطہ شدہ افراد","Phone / WhatsApp":"فون / واٹس ایپ","Polling day":"پولنگ کا دن","Post / office":"عہدہ","Registered voters":"رجسٹرڈ ووٹرز","Rejected / invalid":"مسترد / غلط","Rep phone / WhatsApp":"نمائندے کا فون / واٹس ایپ","Reported by":"رپورٹ کنندہ","Role":"کردار","Seats to fill":"نشستوں کی تعداد","Status":"حیثیت","Title":"عنوان","Type":"قسم","Unit representative":"یونٹ نمائندہ","Who votes for it":"کون ووٹ دیتا ہے","Works at level":"کام کی سطح"};
+const UR={"Support across Punjab":"پنجاب بھر میں حمایت","Division scoreboard":"ڈویژن اسکور بورڈ","Priority targets":"ترجیحی اہداف","Next 14 days":"اگلے 14 دن","Units needing a visit":"دورہ طلب یونٹس","District scoreboard":"ضلعی اسکور بورڈ","Divisional team":"ڈویژنل ٹیم","Outreach in this division":"اس ڈویژن میں رابطہ مہم","Units":"یونٹس","College units":"کالج یونٹس","Outreach log":"رابطہ مہم کا ریکارڈ","Coming up":"آئندہ","Completed & past":"مکمل اور گزشتہ","Campaign team":"انتخابی ٹیم","Coordinator gaps":"خالی کوآرڈینیٹر عہدے","Candidates & seats":"امیدوار اور نشستیں","Data & sharing":"ڈیٹا اور شیئرنگ","Save a backup":"بیک اپ محفوظ کریں","Load a backup":"بیک اپ لوڈ کریں","App version & updates":"ایپ ورژن اور اپڈیٹس","Punjab colleges directory":"پنجاب کالجز ڈائریکٹری","Update units from a spreadsheet":"اسپریڈشیٹ سے یونٹس اپڈیٹ کریں","Install on your phone":"فون پر انسٹال کریں","Clear this device":"اس ڈیوائس کا ڈیٹا صاف کریں","Panel standings":"پینل پوزیشن","Posts on the ballot":"بیلٹ پر عہدے","How voters mark each ballot":"ووٹر بیلٹ پر نشان کیسے لگاتے ہیں","Paste result messages":"نتائج کے پیغامات چسپاں کریں","Provincial posts":"صوبائی عہدے","Divisional posts":"ڈویژنل عہدے","Unit level posts":"یونٹ سطح کے عہدے","Centre — Punjab":"مرکز — پنجاب","Division — Directorates":"ڈویژن — ڈائریکٹوریٹس","District":"ضلع","Unit — Colleges":"یونٹ — کالجز","Focal persons":"فوکل پرسنز","Settings":"ترتیبات","Add college unit":"کالج یونٹ شامل کریں","Edit unit":"یونٹ میں ترمیم","Plan outreach":"رابطہ مہم کی منصوبہ بندی","Edit outreach":"رابطہ مہم میں ترمیم","Add team member":"ٹیم رکن شامل کریں","Edit team member":"ٹیم رکن میں ترمیم","Add post":"عہدہ شامل کریں","Edit post":"عہدے میں ترمیم","Result sheet photo":"نتیجہ شیٹ کی تصویر","Units registered":"رجسٹرڈ یونٹس","Unit coordinators in place":"مقرر یونٹ کوآرڈینیٹرز","Voters (faculty)":"ووٹرز (اساتذہ)","Contacted":"رابطہ ہوا","Favourable":"حامی","Outreach done":"مکمل رابطہ مہم","Voters":"ووٹرز","Outreach":"رابطہ مہم","Divisional coordinators":"ڈویژنل کوآرڈینیٹرز","District coordinators":"ضلعی کوآرڈینیٹرز","Unit coordinators":"یونٹ کوآرڈینیٹرز","Units reported":"رپورٹ شدہ یونٹس","Votes cast":"ڈالے گئے ووٹ","Turnout":"ٹرن آؤٹ","Add member":"رکن شامل کریں","Add the first post":"پہلا عہدہ شامل کریں","Add unit":"یونٹ شامل کریں","Cancel":"منسوخ","Check for updates":"اپڈیٹ چیک کریں","Choose from gallery":"گیلری سے منتخب کریں","Clear all data":"تمام ڈیٹا صاف کریں","Close":"بند کریں","Copy":"کاپی","Delete":"حذف کریں","Delete result":"نتیجہ حذف کریں","Edit":"ترمیم","Edit posts & candidates":"عہدوں اور امیدواروں میں ترمیم","Enter unit result":"یونٹ کا نتیجہ درج کریں","Export CSV":"CSV ایکسپورٹ کریں","Import a .csv file":"CSV فائل امپورٹ کریں","Import results":"نتائج امپورٹ کریں","Install app":"ایپ انسٹال کریں","Load missing colleges":"باقی کالجز لوڈ کریں","Mark done":"مکمل","Merge a file":"فائل شامل کریں","Plan visit":"دورہ طے کریں","Posts & candidates":"عہدے اور امیدوار","Contesting panels":"مدمقابل پینل","Provincial panels":"صوبائی پینل","Replace with a file":"فائل سے تبدیل کریں","Restart now":"ابھی دوبارہ کھولیں","Save":"محفوظ کریں","Save backup (.json)":"بیک اپ محفوظ کریں","Save result":"نتیجہ محفوظ کریں","Send backup on WhatsApp…":"واٹس ایپ پر بیک اپ بھیجیں","Send photo only":"صرف تصویر بھیجیں","Set panel name & polling day":"پینل کا نام اور پولنگ کا دن","Set up posts":"عہدے ترتیب دیں","Set up posts & candidates":"عہدے اور امیدوار ترتیب دیں","Share awaited list":"باقی یونٹس کی فہرست بھیجیں","Share division brief":"ڈویژن کی رپورٹ بھیجیں","Share message elsewhere…":"پیغام کہیں اور بھیجیں","Share summary as message":"خلاصہ بطور پیغام بھیجیں","Share to WhatsApp…":"واٹس ایپ پر بھیجیں","Share today's brief":"آج کی رپورٹ بھیجیں","Tally":"گنتی","Today":"آج","Units list (.csv)":"یونٹس کی فہرست","Use backup office number":"دفتر کا متبادل نمبر","View":"دیکھیں","WhatsApp":"واٹس ایپ","Take photo of result sheet":"نتیجہ شیٹ کی تصویر لیں","Retake photo":"دوبارہ تصویر لیں","1 · Send result message":"نتیجے کا پیغام بھیجیں","2 · Send result file + photo":"نتیجہ فائل اور تصویر بھیجیں","Tap again to delete":"حذف کرنے کے لیے دوبارہ دبائیں","Tap again to clear everything":"سب صاف کرنے کے لیے دوبارہ دبائیں","Strong support":"بھرپور حمایت","Leaning":"مائل","Undecided":"غیر فیصلہ کن","Opposed":"مخالف","Not assessed":"جائزہ باقی","Support level":"حمایت کی سطح","Backup number (if the first is busy)":"متبادل نمبر (اگر پہلا مصروف ہو)","Candidates, one per line as Name | Panel":"امیدوار، ہر سطر میں ایک: نام | پینل","College (unit)":"کالج (یونٹ)","College name":"کالج کا نام","College unit":"کالج یونٹ","Contacted so far":"اب تک رابطہ","Date":"تاریخ","Designation":"عہدہ","Division":"ڈویژن","Election body":"انتخابی ادارہ","Faculty strength (voters)":"اساتذہ کی تعداد (ووٹرز)","Focal person for":"فوکل پرسن برائے","Last visit":"آخری دورہ","Lead person":"ذمہ دار فرد","Level":"سطح","Name":"نام","Note":"نوٹ","Notes (demands raised, commitments made, follow-ups)":"نوٹس","Notes (staff-room demands, pending promotions, influential seniors, rival activity)":"نوٹس","Office WhatsApp number":"دفتر کا واٹس ایپ نمبر","Office name":"دفتر کا نام","Panel / coalition name":"پینل / اتحاد کا نام","People reached":"رابطہ شدہ افراد","Phone / WhatsApp":"فون / واٹس ایپ","Polling day":"پولنگ کا دن","Post / office":"عہدہ","Registered voters":"رجسٹرڈ ووٹرز","Rejected / invalid":"مسترد / غلط","Rep phone / WhatsApp":"نمائندے کا فون / واٹس ایپ","Reported by":"رپورٹ کنندہ","Role":"کردار","Seats to fill":"نشستوں کی تعداد","Status":"حیثیت","Title":"عنوان","Type":"قسم","Unit representative":"یونٹ نمائندہ","Who votes for it":"کون ووٹ دیتا ہے","Works at level":"کام کی سطح"};
 const UR_START=[["Provincial ballot","صوبائی بیلٹ"],["Divisional ballot","ڈویژنل بیلٹ"],["Unit ballot","یونٹ بیلٹ"],["Reporting status","رپورٹنگ کی صورتحال"],["Reporting to","مرکزی دفتر کو رپورٹنگ"]];
 function urFor(t){if(UR[t])return UR[t];const m=/^Load (.+) ballot$/.exec(t);if(m)return m[1]+" بیلٹ لوڈ کریں";if(t.startsWith("Show more colleges"))return "مزید کالجز";const p=UR_START.find(x=>t.startsWith(x[0]));return p?p[1]:""}
 function urSpan(ur){const s=document.createElement("span");s.className="ur";s.lang="ur";s.dir="rtl";s.textContent=ur;return s}

diff --git a/sw.js b/sw.js
@@ -1,6 +1,6 @@
 // PPLA Desk service worker: lets the app open and work with no signal.
 // Bump VERSION whenever index.html changes so phones pick up the new copy.
-const VERSION = "ppla-desk-1.13-b23";
+const VERSION = "ppla-desk-1.14-b24";
 const SHELL = [
   "./",
   "./index.html",
